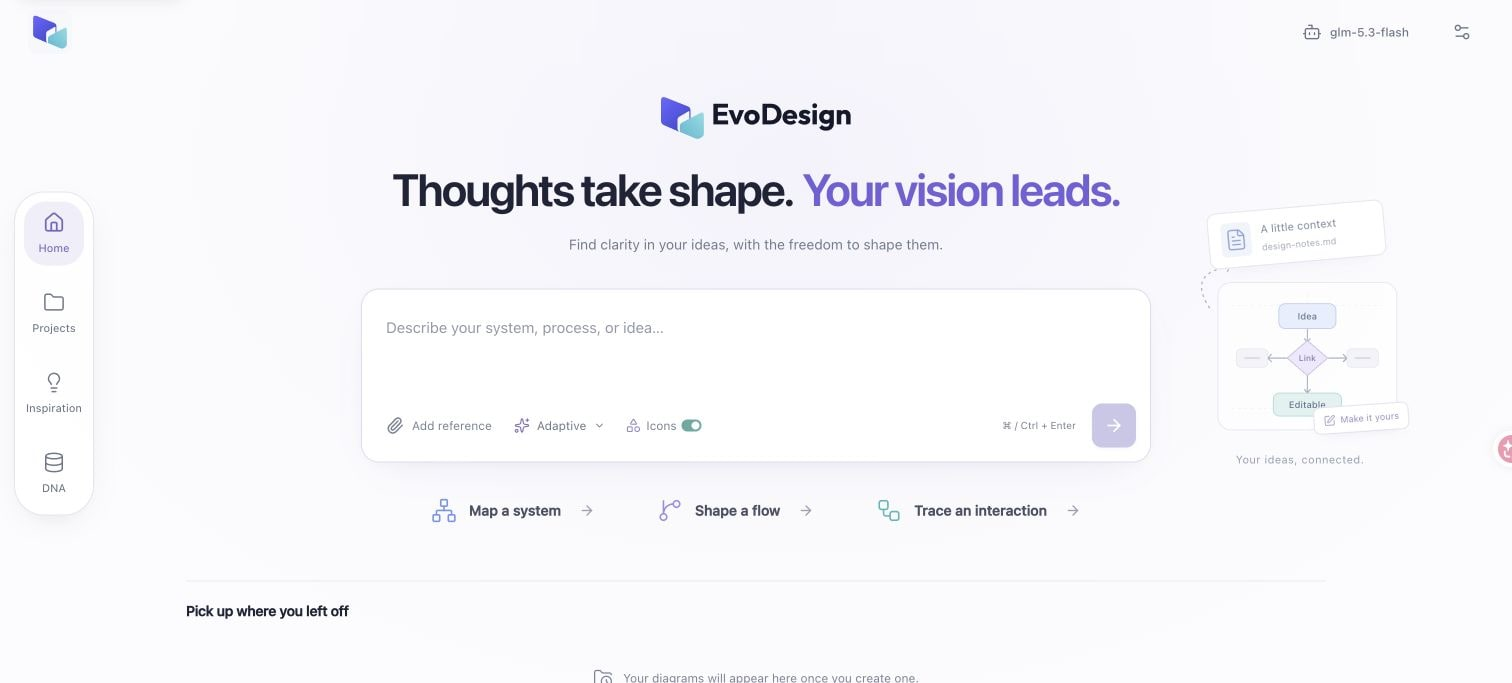
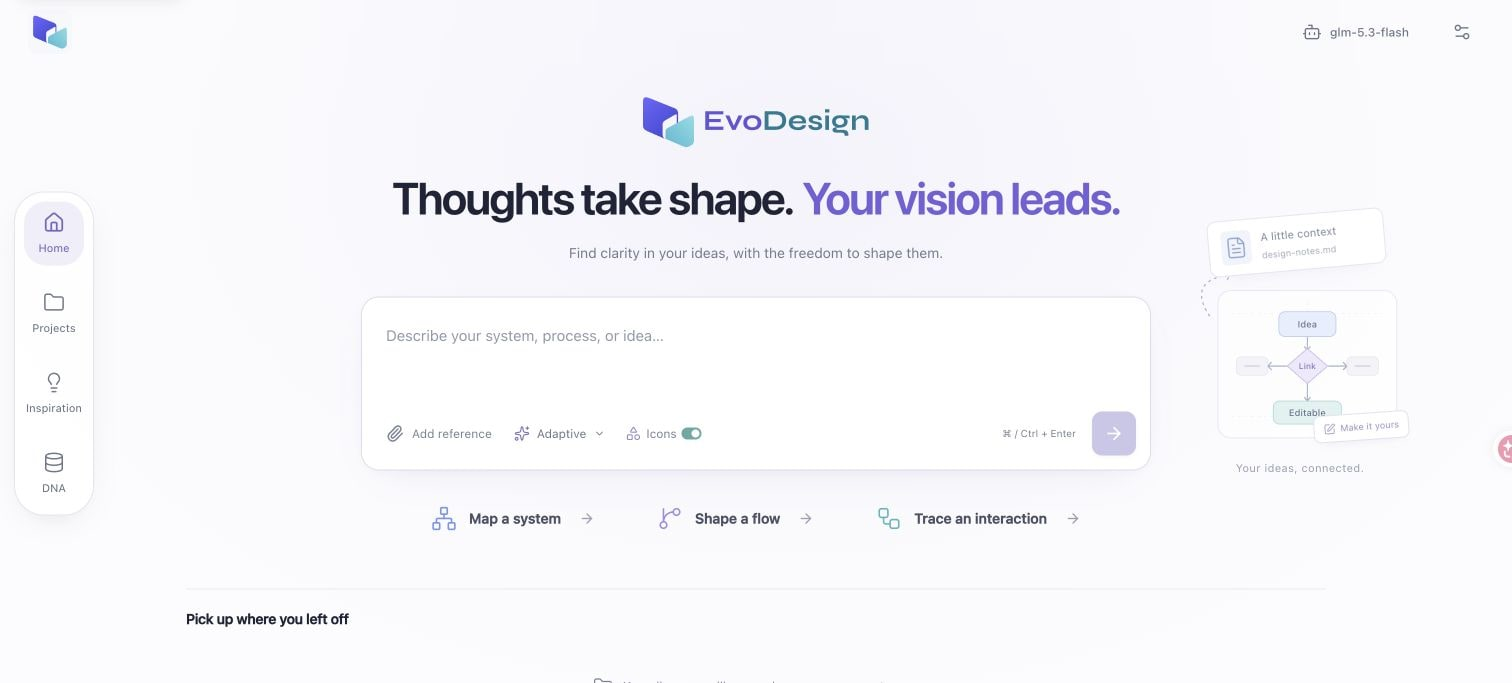
feat: style wordmark with Syne and distinct brand colors

diff --git a/docs/index.html b/docs/index.html
@@ -1053,7 +1053,7 @@ html.page-hidden *,html.page-hidden *::before,html.page-hidden *::after { animat
   <header class="site-header">
     <div class="reading-progress" aria-hidden="true"></div>
     <nav class="nav wrap" aria-label="Main navigation">
-      <a class="wordmark" href="#" aria-label="EvoDesign home"><img class="brand-signature" src="assets/evodesign-lockup.svg" width="156" height="36" alt="EvoDesign"></a>
+      <a class="wordmark" href="#" aria-label="EvoDesign home"><img class="brand-signature" src="assets/evodesign-lockup.svg?v=syne700-1" width="156" height="36" alt="EvoDesign"></a>
       <div class="nav-links"><a href="#features">Features</a><a href="#playground">Workflow</a><a href="#get-started">Get started</a><a href="#overview">Research</a></div>
       <div class="nav-actions"><a class="nav-cite" href="https://evodesign.vercel.app/" target="_blank" rel="noopener noreferrer">Open Studio <span aria-hidden="true">↗</span></a><details class="mobile-contents"><summary aria-label="Page contents">Menu <span aria-hidden="true">⌄</span></summary><div class="contents-panel"><a href="#features">Features <span>01</span></a><a href="#playground">Workflow <span>02</span></a><a href="#get-started">Get started <span>03</span></a><a href="#overview">Research <span>04</span></a><a href="#research-details">Method &amp; results <span>05</span></a><a href="#questions">Questions <span>06</span></a><a href="#citation">Citation <span>07</span></a></div></details><a class="nav-github nav-paper" href="https://arxiv.org/abs/2604.09568" target="_blank" rel="noopener noreferrer">Paper <span aria-hidden="true">↗</span></a><a class="nav-github" href="https://github.com/GeminiLight/EvoDesign" target="_blank" rel="noopener noreferrer">GitHub <span aria-hidden="true">↗</span></a></div>
     </nav>
@@ -1062,7 +1062,7 @@ html.page-hidden *,html.page-hidden *::before,html.page-hidden *::after { animat
     <section class="hero hero-product wrap" aria-labelledby="hero-title">
       <div class="hero-copy">
       <div class="eyebrow hero-eyebrow"><span class="status-dot"></span> OPEN-SOURCE AI DIAGRAM WORKSPACE</div>
-      <h1 id="hero-title"><img class="hero-brand-signature" src="assets/evodesign-lockup.svg" width="496" height="115" alt="" aria-hidden="true"><span class="hero-brand-name">EvoDesign</span></h1>
+      <h1 id="hero-title"><img class="hero-brand-signature" src="assets/evodesign-lockup.svg?v=syne700-1" width="496" height="115" alt="" aria-hidden="true"><span class="hero-brand-name">EvoDesign</span></h1>
       <p class="paper-title product-promise">A personalized diagram workspace,<br><span>together with your Agent.</span></p>
       <p class="product-lead">Describe what you want to explain. Edit every element on the canvas, bring in your Agent, and keep your design preferences for the next diagram.</p>
       <div class="hero-actions"><a class="button primary" href="https://evodesign.vercel.app/" target="_blank" rel="noopener noreferrer">Open Studio <span aria-hidden="true">↗</span></a><a class="button secondary" href="https://github.com/GeminiLight/EvoDesign" target="_blank" rel="noopener noreferrer">GitHub <span aria-hidden="true">↗</span></a><a class="button secondary" href="https://arxiv.org/abs/2604.09568" target="_blank" rel="noopener noreferrer">Paper <span aria-hidden="true">↗</span></a></div>
@@ -1188,6 +1188,6 @@ html.page-hidden *,html.page-hidden *::before,html.page-hidden *::after { animat
     <section id="resources" class="resources wrap"><div><p class="eyebrow">CONTINUE EXPLORING</p><h2>Built to be <em>built upon.</em></h2><p>Explore the workspace, diagram engine <br>and your personal design memory.</p></div><div class="resource-links"><a class="resource-studio" href="https://evodesign.vercel.app/" target="_blank" rel="noopener noreferrer"><span><strong>Open EvoDesign Studio</strong><small>Try the shared demo · No installation</small></span><span aria-hidden="true">↗</span></a><a href="https://github.com/GeminiLight/EvoDesign" target="_blank" rel="noopener noreferrer"><span><strong>Project repository</strong><small>Source code available</small></span><span aria-hidden="true">↗</span></a><a href="https://arxiv.org/abs/2604.09568" target="_blank" rel="noopener noreferrer"><span><strong>Research paper</strong><small>arXiv:2604.09568</small></span><span aria-hidden="true">↗</span></a><a href="https://github.com/GeminiLight/EvoDesign/blob/main/docs/guides/design-memory.md" target="_blank" rel="noopener noreferrer"><span><strong>Personal design memory</strong><small>Preferences, examples &amp; portability</small></span><span aria-hidden="true">↗</span></a></div></section>
   </main>
   <dialog id="figure-dialog" class="figure-dialog" aria-labelledby="figure-title"><div class="dialog-heading"><div><span class="eyebrow" id="figure-eyebrow">PAPER FIGURE</span><h2 id="figure-title">Initial solution</h2></div><button id="close-figure" type="button" aria-label="Close diagram">×</button></div><div class="dialog-image"><img id="figure-image" alt=""></div><div class="figure-dialog-footer"><p id="figure-caption">Software development lifecycle with change control · Manuscript Figure 9</p><a id="figure-original" href="assets/refinement-before.webp" target="_blank" rel="noopener noreferrer">Open full resolution <span aria-hidden="true">↗</span></a></div></dialog>
-  <footer class="footer wrap"><a class="wordmark" href="#" aria-label="EvoDesign home"><img class="brand-signature" src="assets/evodesign-lockup.svg" width="138" height="32" alt="EvoDesign"></a><p>Editable diagrams. Evolving expertise.<span class="page-updated">Page updated <time datetime="2026-10-30">30 October 2026</time></span></p><a href="mailto:xionghui@ust.hk">Contact <span aria-hidden="true">↗</span></a><a href="https://github.com/GeminiLight/EvoDesign" target="_blank" rel="noopener noreferrer">GitHub <span aria-hidden="true">↗</span></a></footer>
+  <footer class="footer wrap"><a class="wordmark" href="#" aria-label="EvoDesign home"><img class="brand-signature" src="assets/evodesign-lockup.svg?v=syne700-1" width="138" height="32" alt="EvoDesign"></a><p>Editable diagrams. Evolving expertise.<span class="page-updated">Page updated <time datetime="2026-10-30">30 October 2026</time></span></p><a href="mailto:xionghui@ust.hk">Contact <span aria-hidden="true">↗</span></a><a href="https://github.com/GeminiLight/EvoDesign" target="_blank" rel="noopener noreferrer">GitHub <span aria-hidden="true">↗</span></a></footer>
 </body>
 </html>

diff --git a/frontend/src/styles/home.css b/frontend/src/styles/home.css
@@ -5,7 +5,7 @@
 .home-main { width: 100%; padding: 0 clamp(112px, 8vw, 144px) 24px; }
 .home-intro { width: min(100%, 1120px); margin: 0 auto; padding: 32px 0 46px; animation: home-arrive 440ms ease-out both; }
 .home-brand-lockup { display: flex; align-items: center; justify-content: center; gap: 13px; margin: 0 auto 20px; }
-.brand-lockup { display: block; width: 190px; height: auto; overflow: visible; }
+.brand-lockup { display: block; width: 226px; max-width: 100%; height: auto; overflow: visible; }
 .home-headline { margin: 0; text-align: center; font-size: clamp(32px, 3.15vw, 45px); font-weight: 650; line-height: 1.3; letter-spacing: -.045em; text-wrap: balance; }
 .home-headline > span { display: inline-block; margin-inline-start: .1em; color: #7360d9; }
 .dark .home-headline > span { color: #b4a3f2; }
@@ -145,7 +145,7 @@
   .home-intro { padding-top: 30px; padding-bottom: 28px; }
   .home-headline { font-size: clamp(28px, 5.5vw, 38px); line-height: 1.4; }
   .home-brand-lockup { gap: 10px; margin-bottom: 17px; }
-  .brand-lockup { width: 176px; }
+  .brand-lockup { width: 204px; }
   .home-intro-description { margin: 14px auto 25px; font-size: 12px; }
   .home-starters { display: grid; grid-template-columns: repeat(3, minmax(0, 1fr)); gap: 4px; margin-top: 20px; }
   .home-shortcut { min-width: 0; justify-content: center; gap: 8px; padding-inline: 4px; font-size: 12px; text-align: left; }

diff --git a/frontend/src/components/BrandLockup.tsx b/frontend/src/components/BrandLockup.tsx
@@ -2,8 +2,8 @@
 export function BrandLockup() {
   return (
     <span className="brand-lockup">
-      <img src="/brand/evodesign-lockup.svg" alt="EvoDesign" width="276" height="64" className="block h-auto w-full dark:hidden" />
-      <img src="/brand/evodesign-lockup-dark.svg" alt="EvoDesign" width="276" height="64" className="hidden h-auto w-full dark:block" />
+      <img src="/brand/evodesign-lockup.svg?v=syne700-1" alt="EvoDesign" width="276" height="64" className="block h-auto w-full dark:hidden" />
+      <img src="/brand/evodesign-lockup-dark.svg?v=syne700-1" alt="EvoDesign" width="276" height="64" className="hidden h-auto w-full dark:block" />
     </span>
   );
 }

diff --git a/docs/assets/README.md b/docs/assets/README.md
@@ -13,7 +13,7 @@ The earlier `../screenshots/studio-home.png` and dark `workspace-preview.png` re
 
 ## Studio identity
 
-`studio-logo.svg`, `favicon.svg`, `evodesign-lockup.svg` and the social preview use the selected **C / Thought takes shape** identity (2 November 2026). Their geometry and outlined Outfit glyphs are generated from `shared/brand.json` with `node scripts/sync-brand.mjs --raster`. The same source generates the app, README, renderer and home-screen icons. See `../../frontend/public/brand/README.md` for variants and the font license. Historical screenshots retain their original interface; refresh active README and hero captures from the actual app when the UI changes.
+`studio-logo.svg`, `favicon.svg`, `evodesign-lockup.svg` and the social preview use the selected **C / Thought takes shape** identity (2 November 2026). Their geometry and outlined Syne Bold glyphs are generated from `shared/brand.json` with `node scripts/sync-brand.mjs --raster`. The two-color wordmark uses blue-violet for Evo and teal for Design, with lighter versions for dark backgrounds. The same source generates the app, README, renderer and home-screen icons. See `../../frontend/public/brand/README.md` for variants and the font license. Historical screenshots retain their original interface; refresh active README and hero captures from the actual app when the UI changes.
 
 ## Website verification
 

diff --git a/frontend/public/brand/README.md b/frontend/public/brand/README.md
@@ -19,8 +19,10 @@ their legacy URL aliases. After installing the renderer dependencies, run
 The script uses the renderer's existing Sharp package. Commit the source and
 generated files together; the app needs no image-rendering dependency at runtime.
 
-The wordmark uses Outfit glyph outlines under SIL OFL 1.1. Keep
-`Outfit-OFL.txt` with the assets. Vector wordmarks do not load a font or depend
+The wordmark uses Syne Bold 700 glyph outlines under SIL OFL 1.1. Keep
+`Syne-OFL.txt` with the assets. Evo uses blue-violet and Design uses teal;
+the dark-theme lockup uses lighter matching colors. HarfBuzz kerning is
+preserved in the outlined glyphs. Font source: https://github.com/google/fonts/tree/main/ofl/syne . Vector wordmarks do not load a font or depend
 on the viewer's installed fonts. Dark assets follow the application's explicit
 theme, including when it differs from the operating-system preference.
 

diff --git a/README.zh-CN.md b/README.zh-CN.md
@@ -1,9 +1,9 @@
 <div align="center">
 
 <picture>
-  <source media="(prefers-color-scheme: dark)" srcset="frontend/public/brand/evodesign-lockup-dark.svg">
-  <source media="(prefers-color-scheme: light)" srcset="frontend/public/brand/evodesign-lockup.svg">
-  <img src="frontend/public/brand/evodesign-lockup.svg" alt="EvoDesign 标志" width="276" height="64">
+  <source media="(prefers-color-scheme: dark)" srcset="frontend/public/brand/evodesign-lockup-dark.svg?v=syne700-1">
+  <source media="(prefers-color-scheme: light)" srcset="frontend/public/brand/evodesign-lockup.svg?v=syne700-1">
+  <img src="frontend/public/brand/evodesign-lockup.svg?v=syne700-1" alt="EvoDesign 标志" width="276" height="64">
 </picture>
 
 # EvoDesign

diff --git a/README.md b/README.md
@@ -1,9 +1,9 @@
 <div align="center">
 
 <picture>
-  <source media="(prefers-color-scheme: dark)" srcset="frontend/public/brand/evodesign-lockup-dark.svg">
-  <source media="(prefers-color-scheme: light)" srcset="frontend/public/brand/evodesign-lockup.svg">
-  <img src="frontend/public/brand/evodesign-lockup.svg" alt="EvoDesign logo" width="276" height="64">
+  <source media="(prefers-color-scheme: dark)" srcset="frontend/public/brand/evodesign-lockup-dark.svg?v=syne700-1">
+  <source media="(prefers-color-scheme: light)" srcset="frontend/public/brand/evodesign-lockup.svg?v=syne700-1">
+  <img src="frontend/public/brand/evodesign-lockup.svg?v=syne700-1" alt="EvoDesign logo" width="276" height="64">
 </picture>
 
 # EvoDesign
